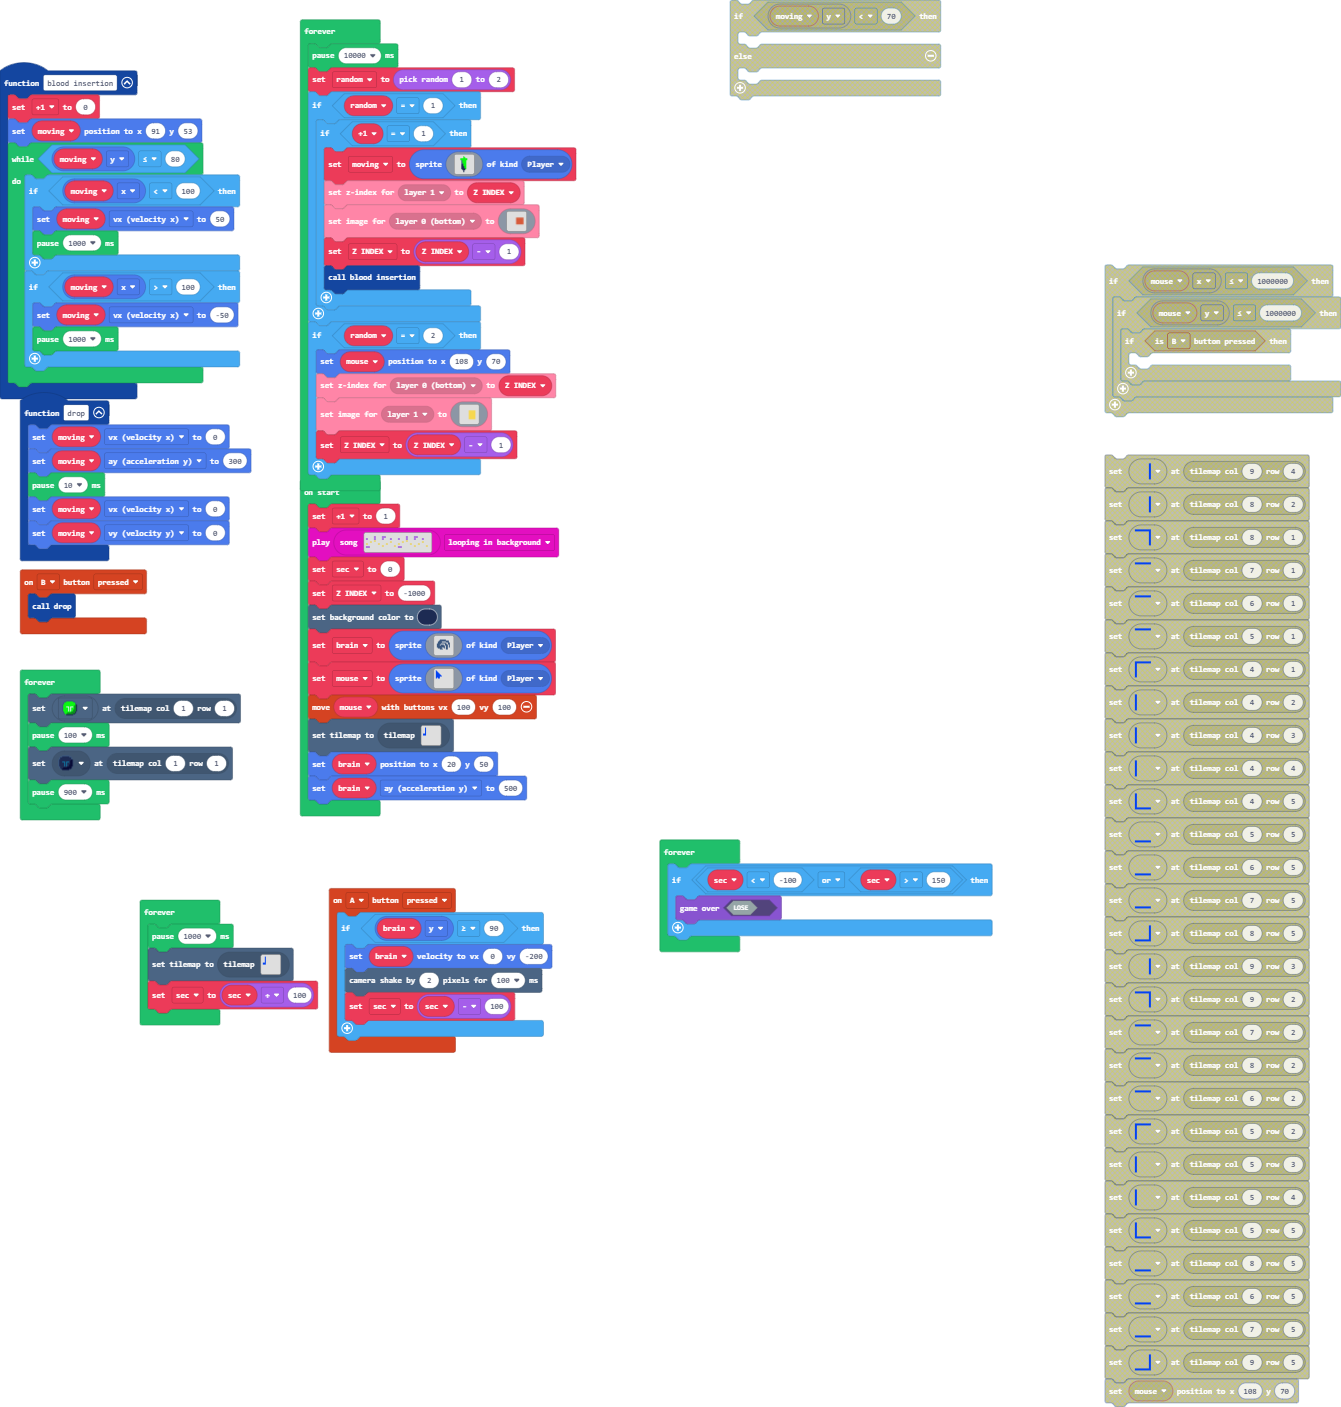
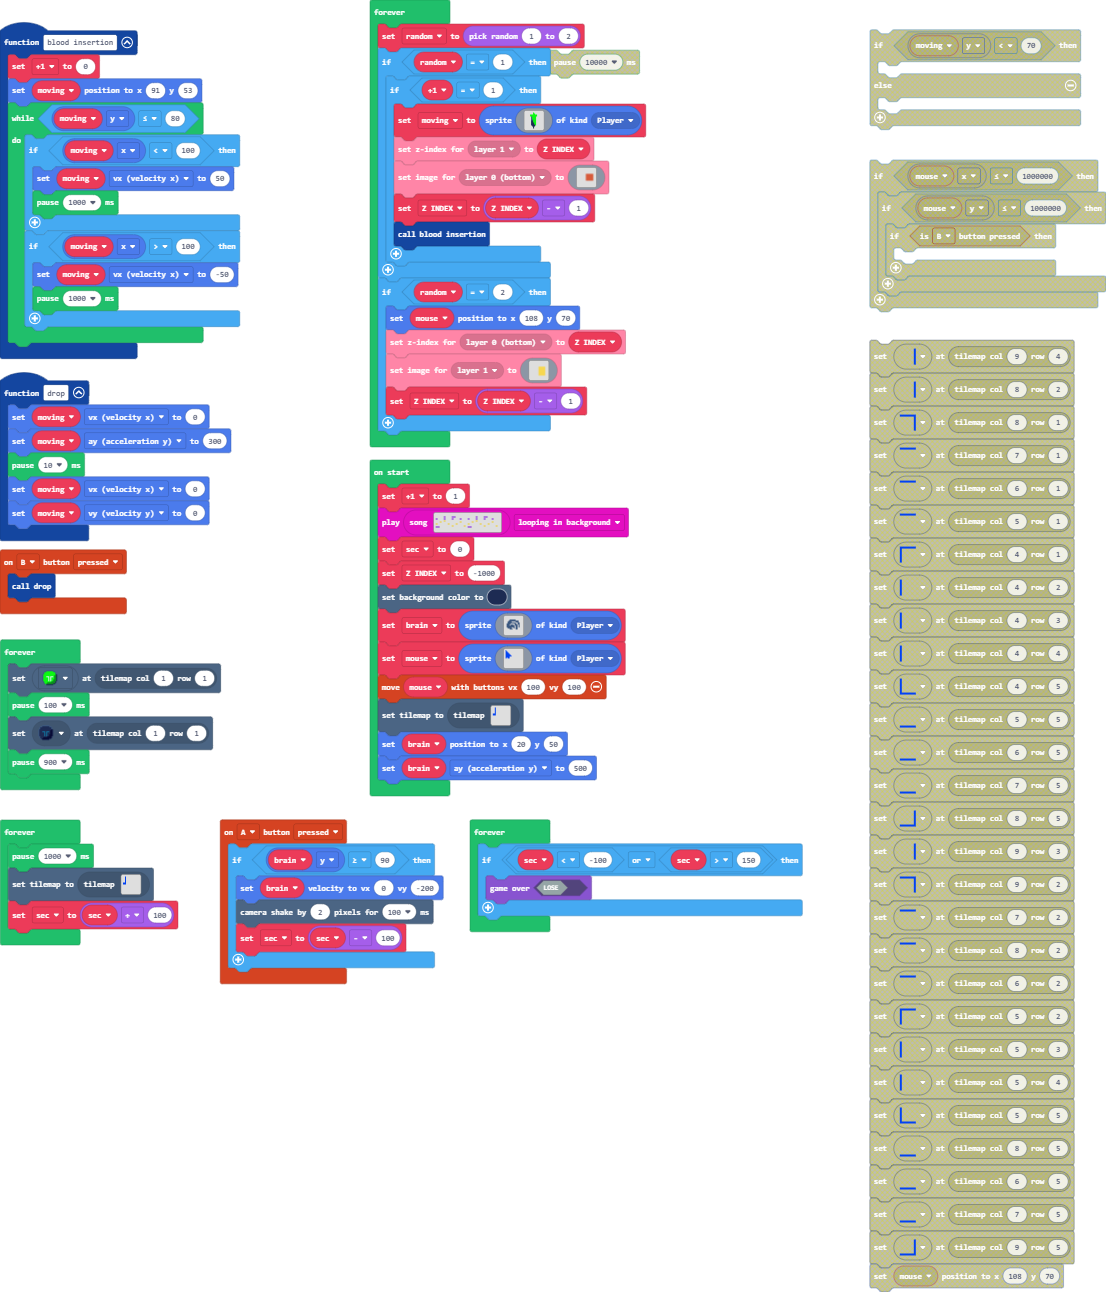
Update main.blocks, main.ts

diff --git a/main.ts b/main.ts
@@ -80,7 +80,6 @@ tiles.setCurrentTilemap(tilemap`level6`)
 brain.setPosition(20, 50)
 brain.ay = 500
 forever(function () {
-    pause(10000)
     random = randint(1, 2)
     if (random == 1) {
         if (_1 == 1) {
@@ -364,12 +363,12 @@ forever(function () {
     pause(900)
 })
 forever(function () {
-    if (sec < -100 || sec > 150) {
-        game.gameOver(false)
-    }
-})
-forever(function () {
     pause(1000)
     tiles.setCurrentTilemap(tilemap`level6`)
     sec = sec + 100
+})
+forever(function () {
+    if (sec < -100 || sec > 150) {
+        game.gameOver(false)
+    }
 })
